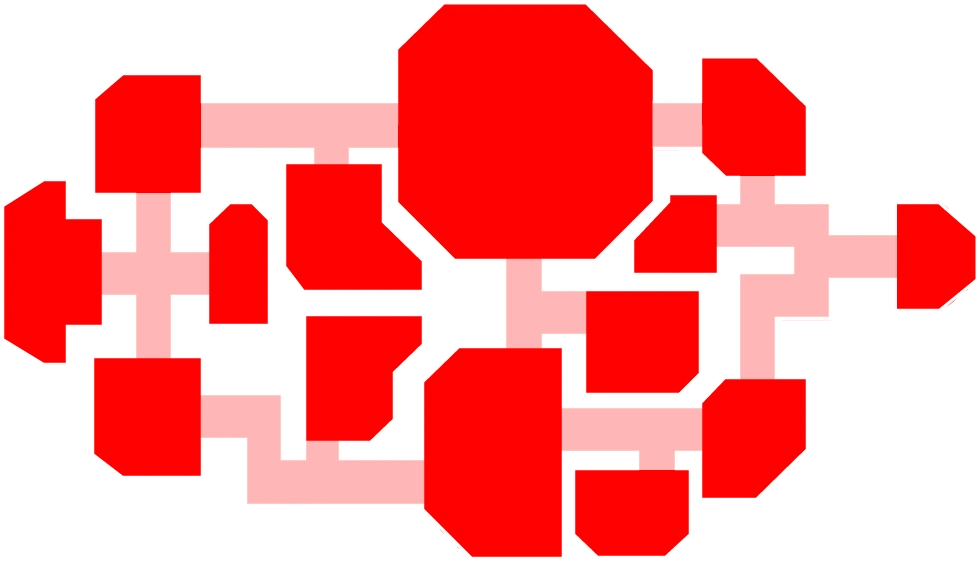
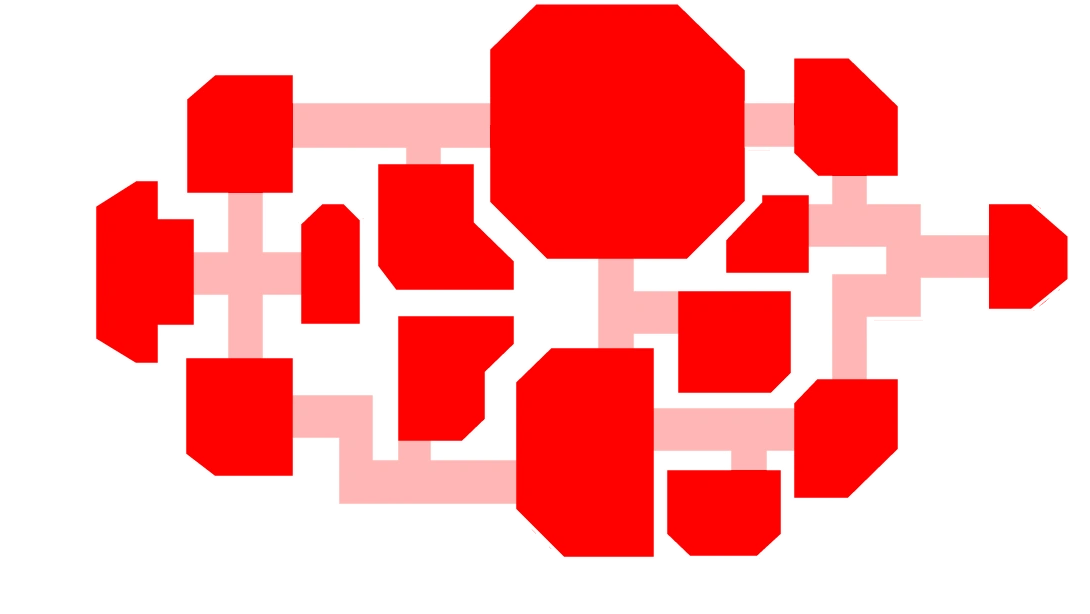
Fix minimap position on screen and player position on minimap

diff --git a/GameMap.cpp b/GameMap.cpp
@@ -22,7 +22,7 @@ void drawPixmapCentered(QPainter* painter, const QPoint &pt, const QPixmap &pixm
     drawPixmapCentered(painter, pt.x(), pt.y(), pixmap);
 }
 
-QPoint GameMap::toMapLayoutPoint(const QPoint &mapPoint) {
+QPoint GameMap::toMinimapPoint(const QPoint &mapPoint) {
     QPixmap* bgPixmap = ui->getBackgroundPixmap();
     return QPoint(mapPoint.x()*mapLayoutPixmap->width()/bgPixmap->width(), mapPoint.y()*mapLayoutPixmap->height()/bgPixmap->height());
 }
@@ -34,9 +34,11 @@ void GameMap::redraw() {
     painter->drawPixmap(0, 0, *mapLayoutPixmap);
     for(Task* task : ui->getTasks())
         if(!task->finished)
-            drawPixmapCentered(painter, toMapLayoutPoint(task->location), *taskIconPixmap);
-    QPoint playerPos(ui->currPlayer.x, ui->currPlayer.y);
-    drawPixmapCentered(painter, toMapLayoutPoint(playerPos), *ui->currPlayer.iconOnMapPixmap);
+            drawPixmapCentered(painter, toMinimapPoint(task->location), *taskIconPixmap);
+    QPoint playerPosMinimap = toMinimapPoint(QPoint(ui->currPlayer.x, ui->currPlayer.y));
+    QSize iconSize = ui->currPlayer.iconOnMapPixmap->size();
+    QPoint topLeftCorner(playerPosMinimap.x() - iconSize.width()/2, playerPosMinimap.y() - iconSize.height());
+    painter->drawPixmap(topLeftCorner, *ui->currPlayer.iconOnMapPixmap);
     delete painter;
     setPixmap(*newPixmap);
     if(currPixmap)

diff --git a/GameMap.h b/GameMap.h
@@ -12,7 +12,7 @@ class GameMap: public QLabel {
 private:
     InGameUI* ui;
     QPixmap* currPixmap;
-    QPoint toMapLayoutPoint(const QPoint &mapPoint);
+    QPoint toMinimapPoint(const QPoint &mapPoint);
 
 public:
     GameMap(InGameUI* ui);
